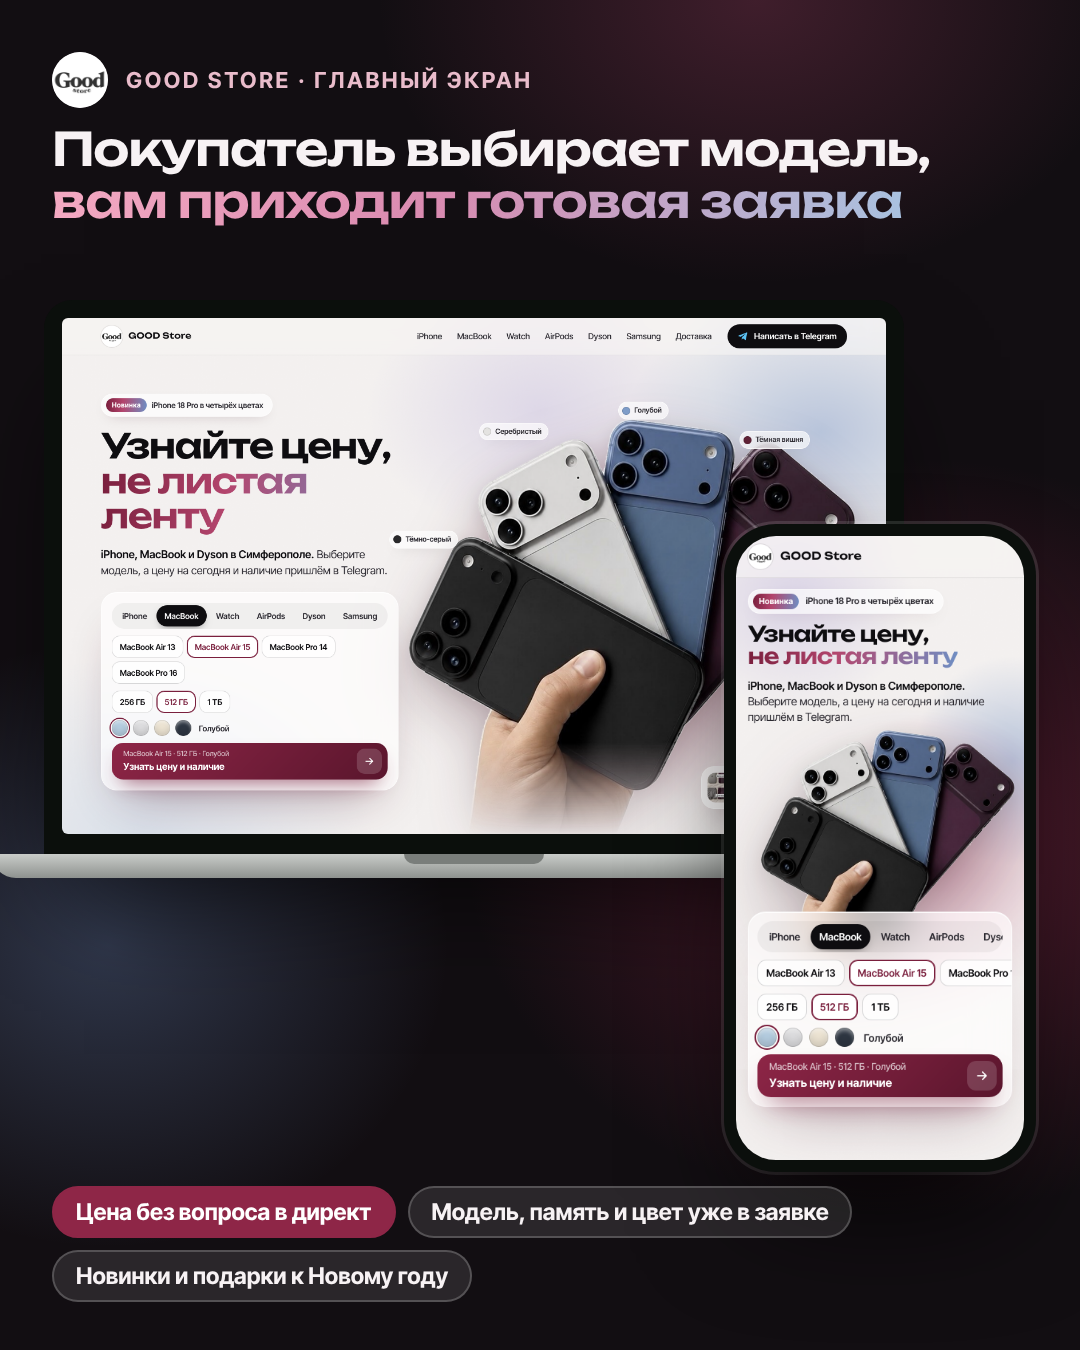
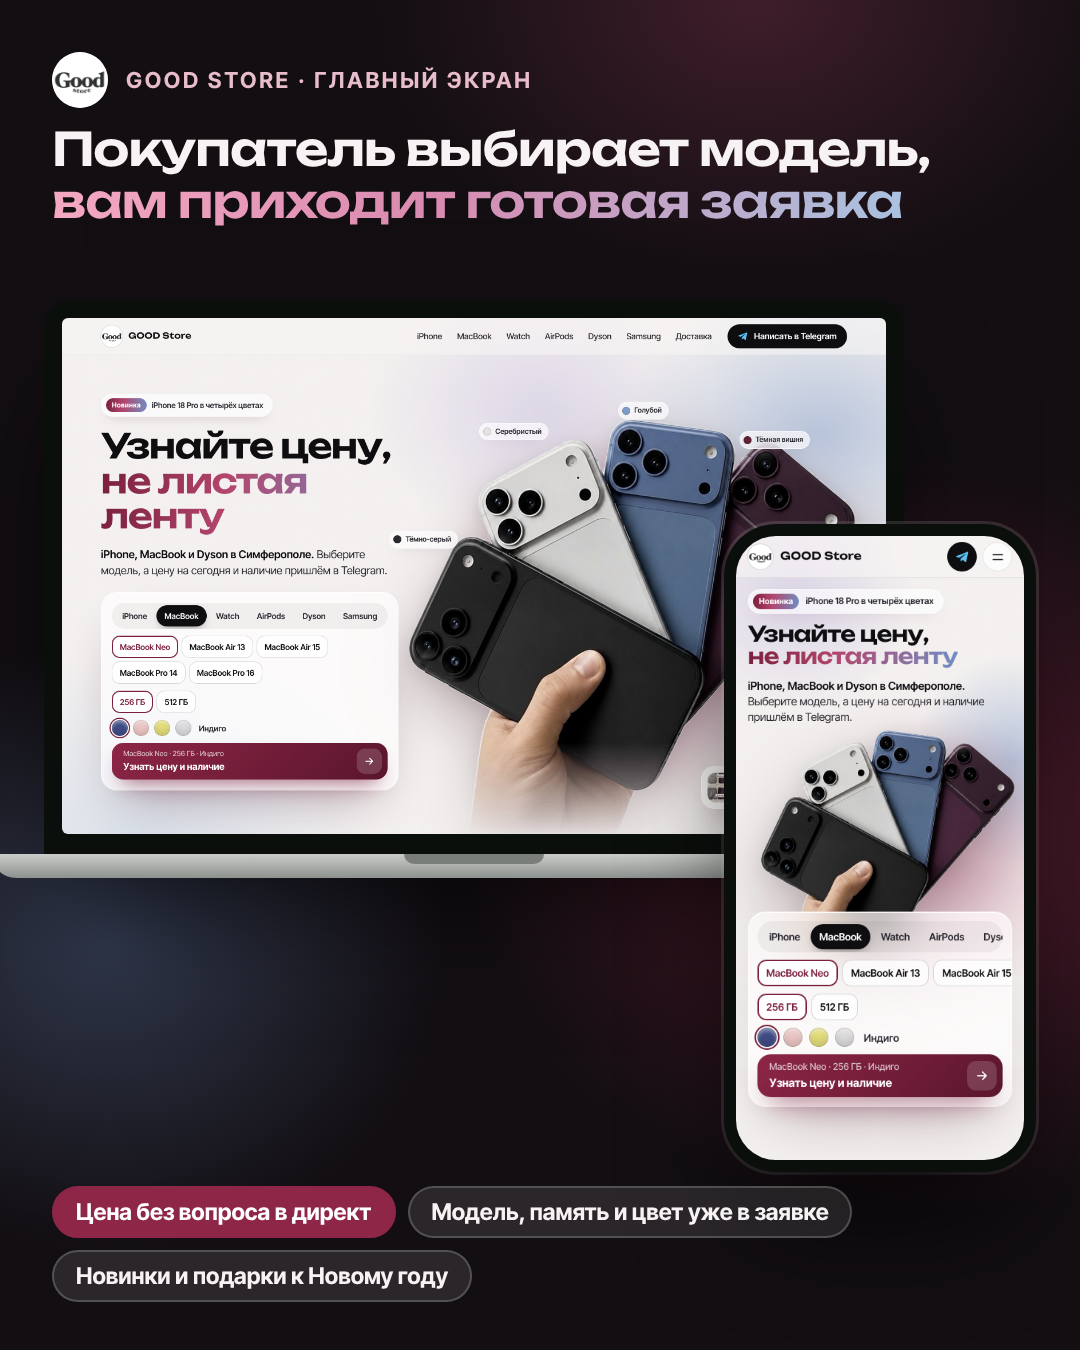
Правило: главный экран «вау», товар вырезан крупно, современные шрифты; вторая картинка «как будет выглядеть сайт»
GOOD Store: MacBook Neo в подборе, sait-maket.png, исправлена ширина на телефоне.
maket.js: свой файл настроек, прокрутка и шаги перед снимком. vyrezat.py: вырезка товара из фона.

Claude-Session: https://claude.ai/code/session_01MqcZMEhrdBnqvn98vNxGAz

Changed region(s): [[0.0917, 0.4667, 0.3056, 0.56], [0.7028, 0.7156, 0.9167, 0.8089], [0.8556, 0.4044, 0.9167, 0.4356]]

diff --git a/_instrumenty/maket.js b/_instrumenty/maket.js
@@ -1,12 +1,14 @@
 // Главный экран одной картинкой 4:5 (1080×1350): ноутбук и телефон вместе.
-// Запуск из корня репозитория: node _instrumenty/maket.js <папка клиента>
+// Запуск из корня репозитория: node _instrumenty/maket.js <папка клиента> [файл настроек]
 // Настройки берутся из <папка клиента>/maket.json (пример: oknovprirody/maket.json).
 // Результат: glavnyi-maket.png, а также glavnyi-noutbuk.png и glavnyi-telefon.png в папке клиента.
+// Вторая картинка «как выглядит сайт дальше»: свой файл настроек с out, laptop и phone
+// (пример: goodstore-crimea/maket-sait.json): ноутбук прокручен к блоку, на телефоне открыто окно заявки.
 const {chromium}=require('playwright');
 const fs=require('fs'),path=require('path'),os=require('os');
 
 const dir=path.resolve(process.argv[2]||'.');
-const cfgPath=path.join(dir,'maket.json');
+const cfgPath=path.join(dir,process.argv[3]||'maket.json');
 const cfg=Object.assign({
   page:'index.html',
   eyebrow:'Главный экран',
@@ -29,7 +31,10 @@ const cfg=Object.assign({
   emStyle:'italic',
   uiFont:'Onest,sans-serif',
   backdrop:'',  // CSS-фон рамки вместо фото, например радиальные градиенты
-  emGradient:'' // градиент для выделенных слов заголовка
+  emGradient:'', // градиент для выделенных слов заголовка
+  out:'glavnyi-maket.png', // имя итоговой картинки
+  laptop:null,  // {scrollTo:'#блок', offset:0, steps:[...]} что сделать на ноутбуке перед снимком
+  phone:null    // то же для телефона; steps: {click:'#id'}, {fill:['#id','текст']}, {check:'#id'}, {wait:300}
 },fs.existsSync(cfgPath)?JSON.parse(fs.readFileSync(cfgPath,'utf8')):{});
 
 const url=f=>'file://'+path.join(dir,f);
@@ -45,11 +50,28 @@ const esc=s=>String(s).replace(/[<>&"]/g,c=>({'<':'&lt;','>':'&gt;','&':'&amp;',
     if(cfg.phoneWait)await p.waitForTimeout(cfg.phoneWait);
     return p;
   };
-  // ноутбук 1440×900 и телефон 390×844, только первый экран
+  const base=cfg.out.replace(/-maket\.png$|\.png$/,'');
+  const shotLap=base+'-noutbuk.png',shotPh=base+'-telefon.png';
+  const prep=async(p,o)=>{
+    if(!o)return;
+    if(o.scrollTo){await p.evaluate(([s,off])=>{const e=document.querySelector(s);window.scrollTo({top:e.getBoundingClientRect().top+scrollY+(off||0),behavior:'instant'})},[o.scrollTo,o.offset||0]);await p.waitForTimeout(300)}
+    // фокус выключен: иначе телефон приближает поле ввода и окно на снимке съезжает
+    if(o.steps)await p.evaluate(()=>{HTMLElement.prototype.focus=function(){}});
+    for(const s of o.steps||[]){
+      if(s.click)await p.$eval(s.click,e=>e.click());
+      if(s.fill)await p.$eval(s.fill[0],(e,v)=>{e.value=v;e.dispatchEvent(new Event('input',{bubbles:true}))},s.fill[1]);
+      if(s.check)await p.$eval(s.check,e=>{e.checked=true;e.dispatchEvent(new Event('change',{bubbles:true}))});
+      if(s.wait)await p.waitForTimeout(s.wait);
+    }
+    await p.waitForTimeout(200);
+  };
+  // ноутбук 1440×900 и телефон 390×844, первый экран или то, что задано в laptop/phone
   let p=await open({width:1440,height:900},{dsf:2});
-  await p.screenshot({path:path.join(dir,'glavnyi-noutbuk.png')});
+  await prep(p,cfg.laptop);
+  await p.screenshot({path:path.join(dir,shotLap)});
   p=await open({width:390,height:844},{dsf:2,m:true});
-  await p.screenshot({path:path.join(dir,'glavnyi-telefon.png')});
+  await prep(p,cfg.phone);
+  await p.screenshot({path:path.join(dir,shotPh)});
 
   const bgPhoto=cfg.photo?`background:url("${url(cfg.photo)}") center 40%/cover;opacity:.35;`:cfg.backdrop?`background:${cfg.backdrop};opacity:1;`:'';
   const logo=cfg.logo?`<img src="${url(cfg.logo)}" alt="">`:'';
@@ -80,16 +102,16 @@ ${cfg.emGradient?`h1 em{background:${cfg.emGradient};-webkit-background-clip:tex
 </style></head><body>
 <div class="s" id="m">
   <div class="top"><div class="br">${logo}${esc(cfg.eyebrow)}</div><h1>${cfg.title}</h1></div>
-  <div class="lap"><div class="scr"><img src="${url('glavnyi-noutbuk.png')}" alt=""></div><div class="base"></div></div>
-  <div class="ph"><img src="${url('glavnyi-telefon.png')}" alt=""></div>
+  <div class="lap"><div class="scr"><img src="${url(shotLap)}" alt=""></div><div class="base"></div></div>
+  <div class="ph"><img src="${url(shotPh)}" alt=""></div>
   <div class="chips">${chips}</div>
 </div></body></html>`;
   const tmp=path.join(os.tmpdir(),'maket-'+process.pid+'.html');
   fs.writeFileSync(tmp,html);
   p=await b.newPage({viewport:{width:540,height:675},deviceScaleFactor:2});
   await p.goto('file://'+tmp);await p.waitForLoadState('networkidle');await p.evaluate(()=>document.fonts.ready);
-  await p.locator('#m').screenshot({path:path.join(dir,'glavnyi-maket.png')});
+  await p.locator('#m').screenshot({path:path.join(dir,cfg.out)});
   fs.unlinkSync(tmp);
   await b.close();
-  console.log(errs.length?'ошибки на странице:\n'+errs.join('\n'):'готово: '+path.join(dir,'glavnyi-maket.png'));
+  console.log(errs.length?'ошибки на странице:\n'+errs.join('\n'):'готово: '+path.join(dir,cfg.out));
 })();

diff --git a/goodstore-crimea/index.html b/goodstore-crimea/index.html
@@ -121,7 +121,7 @@ section{padding:96px 0}
 .kicker{font-size:13px;font-weight:700;letter-spacing:.14em;text-transform:uppercase;color:var(--cherry)}
 .h2{font-family:var(--display);font-weight:600;font-size:clamp(26px,3.4vw,46px);line-height:1.05;letter-spacing:-.03em;margin-top:12px}
 .colors{background:#fff;text-align:center}
-.colors .row{margin:44px auto 0;max-width:900px}
+.colors .row{margin:44px auto 0;max-width:min(900px,100%)}
 .names{display:grid;grid-template-columns:repeat(4,1fr);max-width:900px;margin:18px auto 0;font-weight:600;font-size:15px;color:var(--ink2)}
 .names span{display:flex;align-items:center;justify-content:center;gap:8px}
 .names i{width:12px;height:12px;border-radius:50%}
@@ -291,14 +291,14 @@ footer nav{margin:0;gap:18px}
       <div class="bento">
         <button class="tile tall" data-go="Dyson"><img src="img/dyson-airwrap.jpg" alt="Dyson Airwrap"><b>Dyson</b><small>Airwrap, Supersonic, Airstrait</small></button>
         <button class="tile" data-go="iPhone"><img src="img/iphone17-trio.jpg" alt="iPhone 17 Pro"><b>iPhone</b><small>18 Pro, 17 Pro, 17, 16</small></button>
-        <button class="tile mac" data-go="MacBook"><em>Air и Pro</em><span><b>MacBook</b><small style="color:#C9C5CF;display:block">Подберём память и цвет</small></span></button>
+        <button class="tile mac" data-go="MacBook"><em>Neo, Air и Pro</em><span><b>MacBook</b><small style="color:#C9C5CF;display:block">Подберём память и цвет</small></span></button>
         <button class="tile" data-go="Watch"><img src="img/watch.jpg" alt="Apple Watch"><b>Apple Watch</b><small>Ultra, Series, SE</small></button>
         <button class="tile gifts" data-go="AirPods"><b style="font-size:26px">Подарки к&nbsp;Новому году</b><small>Для неё ❤ и для него ❤</small></button>
       </div>
     </div>
   </section>
 
-  <section id="how" style="padding-top:0">
+  <section id="how" style="padding-top:64px">
     <div class="wrap">
       <div class="kicker">Как купить</div>
       <h2 class="h2">Три шага до покупки</h2>
@@ -347,7 +347,8 @@ const S={g:['Тёмно-серый','#3A3A3C'],lb:['Голубой','#A9C2E0'],c
   or:['Оранжевый','#D9773A'],db:['Тёмно-синий','#2F3E5C'],bk:['Чёрный','#222225'],wh:['Белый','#F2F2F0'],lv:['Лавандовый','#C9BEDF'],sg:['Шалфей','#B5C2A5'],
   pk:['Розовый','#EFC7D0'],tl:['Бирюзовый','#9CCFCB'],ul:['Ультрамарин','#5D6BD6'],sky:['Голубой','#B4CCDF'],star:['Сияющая звезда','#ECE3D2'],mid:['Тёмная ночь','#2E3642'],
   sb:['Космический чёрный','#2B2B2D'],nt:['Натуральный титан','#C8C1B4'],bt:['Чёрный титан','#3A3A3C'],rg:['Розовое золото','#E6C3B3'],
-  dp:['Розовый с медью','#E8C8C0'],dbl:['Синий с медью','#3B4A6B'],dn:['Никель с медью','#9A9CA0'],pu:['Фиолетовый','#B7A6D9']};
+  dp:['Розовый с медью','#E8C8C0'],dbl:['Синий с медью','#3B4A6B'],dn:['Никель с медью','#9A9CA0'],pu:['Фиолетовый','#B7A6D9'],
+  nsi:['Серебристый','#DCDCDE'],nbl:['Розовый','#EBC6C4'],nci:['Цитрус','#E3DC7A'],nin:['Индиго','#3F4C86']};
 const c=(...k)=>k.map(x=>S[x]);
 const D={
   iPhone:{models:{
@@ -357,6 +358,7 @@ const D={
     'iPhone 17':[['256 ГБ','512 ГБ'],c('lv','sg','lb','wh','bk')],
     'iPhone 16':[['128 ГБ','256 ГБ','512 ГБ'],c('bk','wh','pk','tl','ul')]}},
   MacBook:{models:{
+    'MacBook Neo':[['256 ГБ','512 ГБ'],c('nin','nbl','nci','nsi')],
     'MacBook Air 13':[['256 ГБ','512 ГБ','1 ТБ'],c('sky','si','star','mid')],
     'MacBook Air 15':[['256 ГБ','512 ГБ','1 ТБ'],c('sky','si','star','mid')],
     'MacBook Pro 14':[['512 ГБ','1 ТБ','2 ТБ'],c('sb','si')],
@@ -379,7 +381,7 @@ const D={
     'Galaxy Z Fold':[['256 ГБ','512 ГБ','1 ТБ'],c('bk','si','db')],
     'Galaxy Z Flip':[['256 ГБ','512 ГБ'],c('bk','si','lb')]}}
 };
-const st={cat:'MacBook',model:'MacBook Air 15',opt:'512 ГБ',col:'Голубой'};
+const st={cat:'MacBook',model:'MacBook Neo',opt:'256 ГБ',col:'Индиго'};
 const $=id=>document.getElementById(id);
 function btn(txt,on,fn){const b=document.createElement('button');b.type='button';b.textContent=txt;b.setAttribute('aria-pressed',on);b.onclick=fn;return b}
 function render(){

diff --git a/_instrumenty/vyrezat.py b/_instrumenty/vyrezat.py
@@ -1,0 +1,47 @@
+# Вырезает товар со светлого однотонного фона скриншота (пост Instagram, белый фон) в PNG с прозрачностью.
+# Запуск: python3 _instrumenty/vyrezat.py <скриншот> <x1,y1,x2,y2> <выход.png> [края] [допуск]
+#   x1,y1,x2,y2 — рамка в точках экрана iPhone (как на скриншоте шириной 923), скрипт сам умножает на 1179/923
+#   края — с каких краёв начинается фон: t верх, l лево, r право, b низ (по умолчанию tlr: снизу рука или предмет уходит за край)
+#   допуск — насколько цвет может отличаться от фона (по умолчанию 10; больше — режет смелее)
+# Нужен scipy: pip install scipy. Результат проверить глазами на тёмном и цветном фоне.
+# Образец: goodstore-crimea/img/iphone18-cut.png (вызов: ... b2ce2343.png 0,742,923,1508 img/iphone18-cut.png tlr 9)
+import sys,numpy as np
+from PIL import Image,ImageFilter
+from scipy import ndimage as nd
+src,box,out=sys.argv[1],[int(v) for v in sys.argv[2].split(',')],sys.argv[3]
+edges=sys.argv[4] if len(sys.argv)>4 else 'tlr'
+tol=float(sys.argv[5]) if len(sys.argv)>5 else 10
+k=1179/923
+im=Image.open(src).convert('RGB').crop(tuple(round(v*k) for v in box))
+a=np.asarray(im).astype(float)
+bg=np.median(np.concatenate([a[:4].reshape(-1,3),a[:, :4].reshape(-1,3),a[:, -4:].reshape(-1,3)]),axis=0)
+d=np.sqrt(((a-bg)**2).sum(-1))
+light=d<tol
+lab,n=nd.label(light)
+seed=set()
+if 't' in edges: seed|=set(np.unique(lab[0]))
+if 'l' in edges: seed|=set(np.unique(lab[:,0]))
+if 'r' in edges: seed|=set(np.unique(lab[:,-1]))
+if 'b' in edges: seed|=set(np.unique(lab[-1]))
+seed.discard(0)
+bgmask=np.isin(lab,list(seed))
+# заполнить мелкие дырки внутри предмета, убрать островки фона
+fg=~bgmask
+fg=nd.binary_fill_holes(fg)
+fg=nd.binary_opening(fg,iterations=1)
+# оставить крупнейшие компоненты
+lab2,n2=nd.label(fg); sizes=nd.sum(fg,lab2,range(1,n2+1))
+keep=[i+1 for i,s in enumerate(sizes) if s>0.002*fg.size]
+fg=np.isin(lab2,keep)
+# мягкий край: альфа по расстоянию от фона в полосе 2px
+alpha=Image.fromarray((fg*255).astype(np.uint8)).filter(ImageFilter.GaussianBlur(1.1))
+al=np.asarray(alpha).astype(float)
+# у края делаем пиксели чуть прозрачнее, если они близки к цвету фона (убирает белый ореол)
+edge=(al>0)&(al<255)
+soft=np.clip(d/ (tol*2.2),0,1)
+al=np.where(edge,al*np.maximum(soft,0.35),al)
+rgba=np.dstack([a,al]).clip(0,255).astype(np.uint8)
+res=Image.fromarray(rgba,'RGBA')
+bb=res.getbbox(); res=res.crop(bb)
+res=res.filter(ImageFilter.UnsharpMask(radius=1.2,percent=60,threshold=2))
+res.save(out,optimize=True); print(out,res.size,'bg',bg.round())

diff --git a/CLAUDE.md b/CLAUDE.md
@@ -8,6 +8,8 @@
 - В сообщении с наброском не звать на созвон, пока клиент не одобрил структуру.
 - В сообщении клиенту только одна ссылка: на разбор. Главный экран (телефон и ноутбук) и структуру сайта Анастасия отправляет картинками, поэтому в разборе нет блока «Что уже есть в наброске» и ссылки на главный экран. Картинки структуры делать в формате 4:5 (1080×1350), чтобы читались в директе.
 - Главный экран отдавать Анастасии ОДНОЙ картинкой-макетом 4:5 (1080×1350): сайт на ноутбуке и рядом на телефоне, сверху короткий заголовок о главной выгоде, снизу 2–3 плашки. Отдельные скриншоты ноутбука и телефона не присылать: ей неудобно отправлять клиенту пачку. Формат впервые сделан для «Окна в природу». Собирать скриптом: `node _instrumenty/maket.js <папка клиента>`, настройки в `<папка клиента>/maket.json` (пример: termorum/maket.json). Результат: `<папка клиента>/glavnyi-maket.png`.
+- Главный экран должен цеплять с первого взгляда, «вау» (решение Анастасии 25.11.2026, GOOD Store): товар клиента вырезан из фона и стоит крупно, целиком, без рамки и без обрезки по бокам, за ним мягкое свечение в цветах товара. Шрифты современные (Unbounded для заголовков, Inter Tight для текста), не стандартные Lora и Onest. Шрифты, градиент заголовка и фон рамки задаются в maket.json. Образец: `goodstore-crimea/`. Вырезать товар со скриншота: `python3 _instrumenty/vyrezat.py <скриншот> <x1,y1,x2,y2> <выход.png>` (нужен `pip install scipy`), потом посмотреть вырезку на тёмном фоне.
+- Чтобы точно заинтересовать, можно отправить вторую картинку «как будет выглядеть сайт»: каталог на ноутбуке и окно «Так заявка придёт вам» на телефоне. `node _instrumenty/maket.js <папка клиента> maket-sait.json`, результат `sait-maket.png` (образец `goodstore-crimea/maket-sait.json`).
 - Набросок под ключ запускается фразой «Набросок для <клиент>» или командой /nabrosok со скриншотами: порядок работы в `.claude/skills/nabrosok/SKILL.md`. Слайды структуры и превью ссылок: `node _instrumenty/kartinki.js <папка клиента>`.
 - Правила записывать сюда и переносить в main: каждая новая сессия начинает с main, поэтому правило, оставшееся только на рабочей ветке claude/*, в следующий раз потеряется.
 
